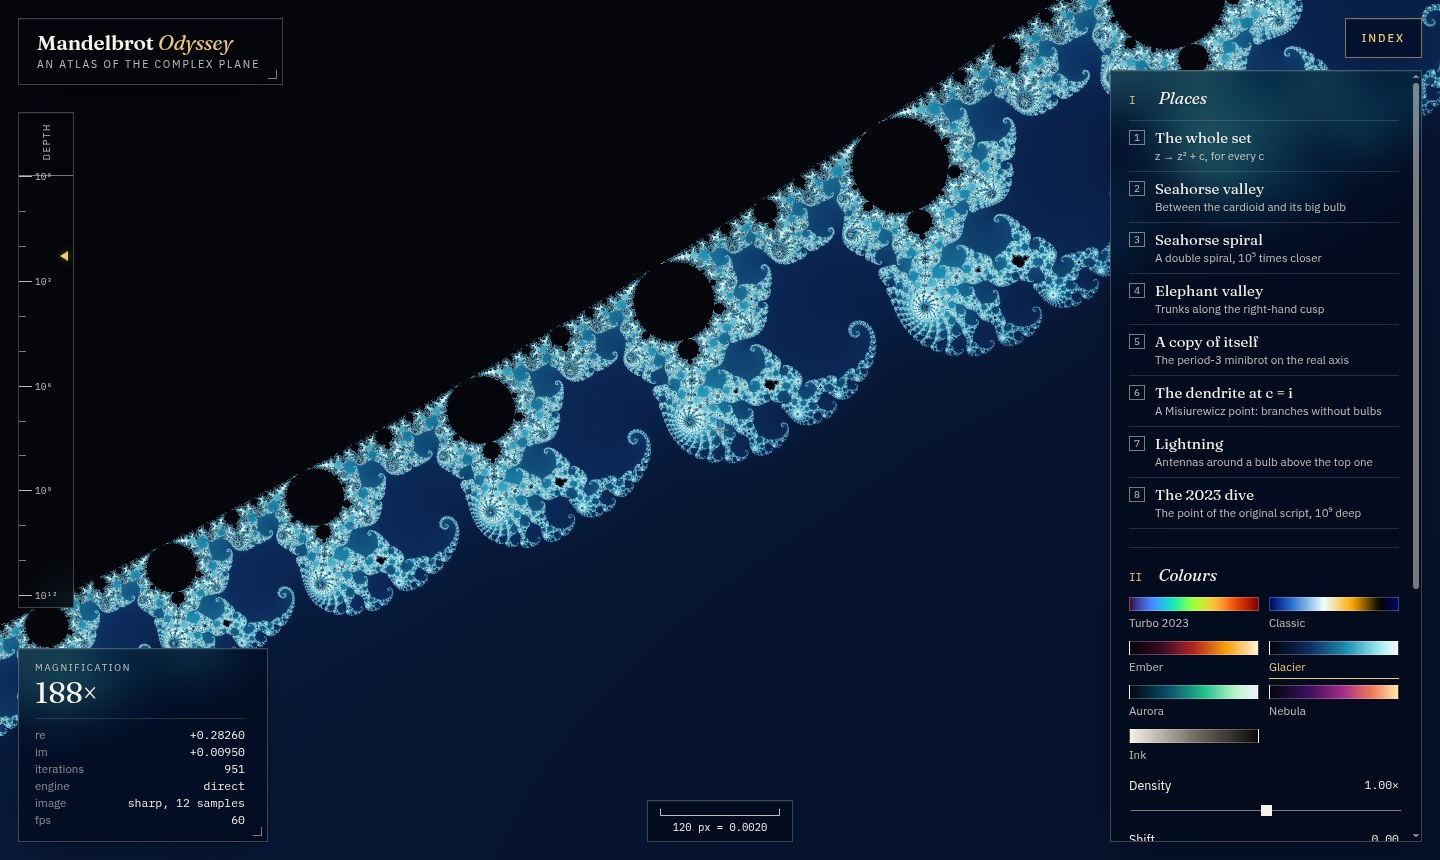
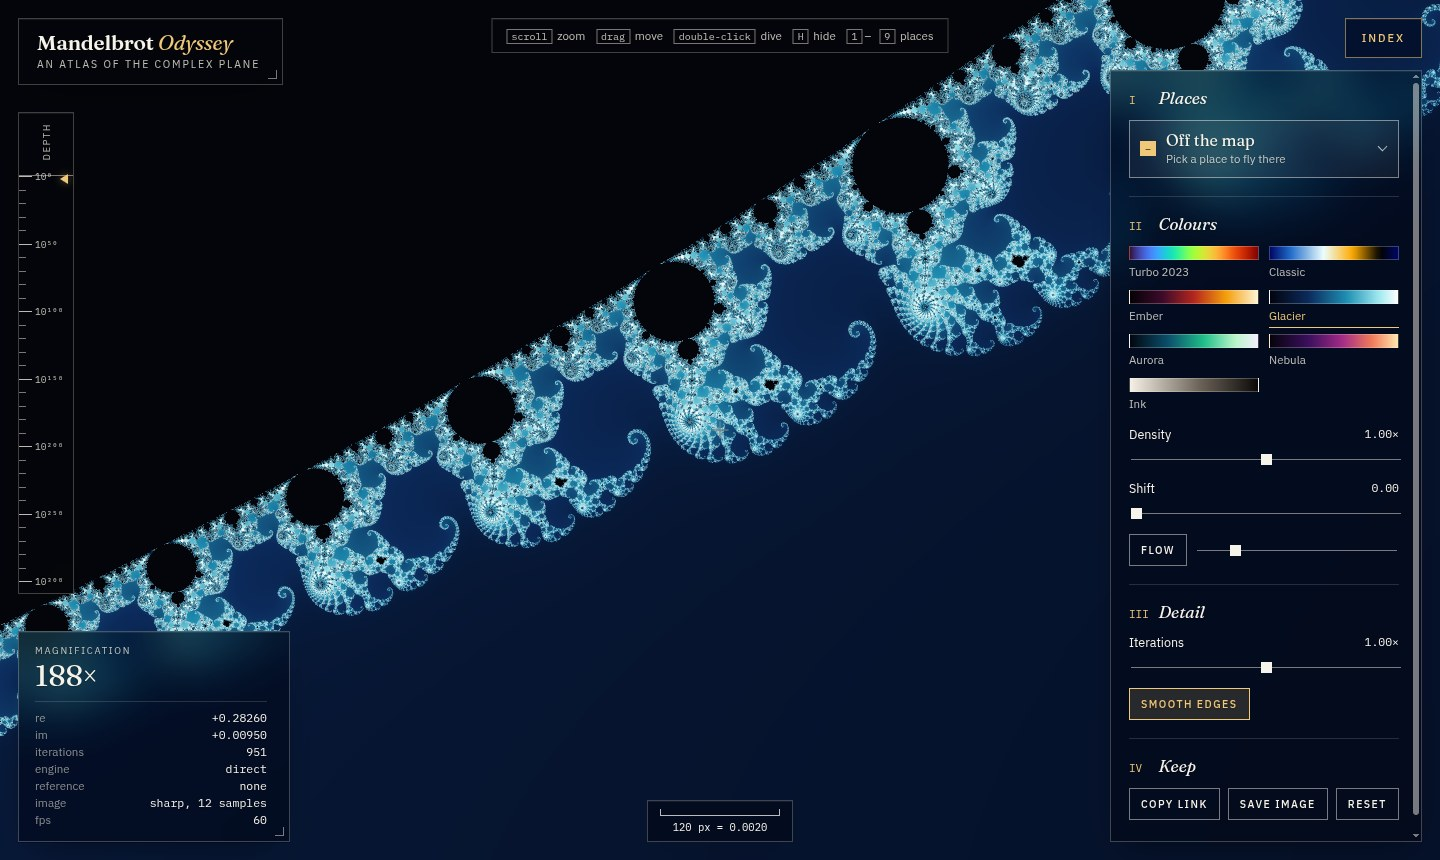
add: deep zoom in the readme, new screenshots

diff --git a/README.md b/README.md
@@ -1,6 +1,6 @@
 # Mandelbrot Odyssey
 
-A real-time journey into the Mandelbrot set, computed live on your graphics card. Scroll into a spiral, fly to the famous places of the set, change the colours as you go, and dive to a magnification of a thousand billion, smoothly.
+A real-time journey into the Mandelbrot set, computed live on your graphics card. Scroll into a spiral, fly to the famous places of the set, change the colours as you go, and dive to a magnification of 10³⁰⁰, smoothly.
 
 ## Installation
 
@@ -54,37 +54,39 @@ npm start
 
 ## Screenshots
 
-![The whole Mandelbrot set, with the panel of places and colours](docs/screenshots/home.jpg)
+![The whole Mandelbrot set, with the index of places and colours](docs/screenshots/home.jpg)
 
-*The whole set. On the right, eight famous places and seven palettes; on the left, the zoom, the coordinates and the engine at work.*
+*The whole set. On the right, the index: places, palettes, detail. On the left, the depth gauge, from 10⁰ to 10³⁰⁰, and the readout of the engine at work.*
 
-![Seahorse valley](docs/screenshots/seahorses.jpg)
+![The index of places, open](docs/screenshots/places.jpg)
 
-*Seahorse valley, between the main cardioid and its largest bulb.*
+*Nine places in a drop-down list, from the whole set down to the bottom of the map. The keys 1 to 9 fly there too.*
 
 ![A double spiral 100 000 times closer](docs/screenshots/spiral.jpg)
 
-*A double spiral at a magnification of 10⁵, computed with perturbations around a reference orbit.*
+*A double spiral at a magnification of 10⁵.*
 
 | | |
 | :-: | :-: |
-| ![Elephant valley in the Glacier palette](docs/screenshots/elephants.jpg) | ![Lightning around a bulb in the Ember palette](docs/screenshots/lightning.jpg) |
-| *Elephant valley, Glacier* | *Lightning, Ember* |
+| ![Seahorse valley](docs/screenshots/seahorses.jpg) | ![Elephant valley in the Glacier palette](docs/screenshots/elephants.jpg) |
+| *Seahorse valley* | *Elephant valley, Glacier* |
+| ![Lightning around a bulb in the Ember palette](docs/screenshots/lightning.jpg) | ![The last frame of the 2023 script](docs/screenshots/dive-2023.jpg) |
+| *Lightning, Ember* | *The 2023 dive, 10¹⁸ deep* |
 
-![The point of the original 2023 script at a magnification of a billion](docs/screenshots/dive-2023.jpg)
+![The dendrite at c = i, 10^290 times closer](docs/screenshots/bottom.jpg)
 
-*The 2023 dive: the point of the original script, a billion times closer, in its own Turbo colours.*
+*The bottom of the map: the dendrite at c = i, 4.5 × 10²⁹⁰ times closer, computed with a reference orbit of 1030 bits. The same branches as at the top: c = i is a Misiurewicz point, where the set looks alike at every scale.*
 
 <p align="center">
   <img src="docs/screenshots/mobile.jpg" alt="The spiral on a phone" width="300">
 </p>
 
-<p align="center"><em>On a phone: pinch to zoom, drag to move, and the panel folds away.</em></p>
+<p align="center"><em>On a phone: pinch to zoom, drag to move, and the index folds away.</em></p>
 
 ## What you can do
 
-- **Zoom anywhere.** Scroll or pinch to zoom around the pointer, drag to move, and let go to glide. Double-click dives four times closer, <kbd>Shift</kbd> + double-click goes back.
-- **Fly to famous places.** Seahorse valley, a double spiral, elephant valley, a minibrot copy of the whole set, the dendrite at c = i, and the point of the original script. Each flight eases in log space, so a jump of nine orders of magnitude still feels even.
+- **Zoom anywhere, as deep as 10³⁰⁰.** Scroll or pinch to zoom around the pointer, drag to move, and let go to glide. Double-click dives four times closer, <kbd>Shift</kbd> + double-click goes back. The point under the pointer stays exactly where it is all along the zoom.
+- **Fly to famous places.** Seahorse valley, a double spiral, elephant valley, a minibrot copy of the whole set, the dendrite at c = i, the end of the original 2023 script at 10¹⁸, and the bottom of the map at 10²⁹⁰. A flight to a place out of sight first pulls back until it is in view, then dives, faster the deeper it goes: 10¹⁸ in about five seconds, 10²⁹⁰ in under twenty.
 - **Colour it.** Seven palettes, including *Turbo 2023*, the colours of the original script: 150 steps of Turbo, up and back down. Change the density and the shift, or let the colours flow. Colours change instantly, without recomputing the image.
 - **Always smooth.** While you move, the image is computed at a lower resolution that fits in the frame budget. When you stop, it sharpens, then smooths its edges with up to 12 samples per pixel.
 - **Share it.** The address always holds the current view: copy the link and anyone opens the same place, with the same colours. Save the image as a PNG.
@@ -98,7 +100,7 @@ npm start
 | double-click | dive ×4 (<kbd>Shift</kbd>: back ×4) |
 | <kbd>←</kbd> <kbd>→</kbd> <kbd>↑</kbd> <kbd>↓</kbd> | move |
 | <kbd>+</kbd> <kbd>−</kbd> | zoom on the centre |
-| <kbd>1</kbd>–<kbd>8</kbd> | famous places |
+| <kbd>1</kbd>–<kbd>9</kbd> | famous places |
 | <kbd>C</kbd> | flowing colours |
 | <kbd>S</kbd> | save the image |
 | <kbd>H</kbd> | hide the panels |
@@ -108,25 +110,31 @@ npm start
 
 Every pixel is a complex number c. The explorer iterates z → z² + c from z = 0 and counts the steps before |z| grows past 256. Points that never escape belong to the set and stay dark. The others are coloured by a *continuous* count, n − log₂(log₂|z|²) + 4, which removes the bands of a plain count.
 
-Graphics cards compute in 32-bit floats, which blur the image past a magnification of about 10⁴. Below that, the explorer uses **perturbation theory**:
+Graphics cards compute in 32-bit floats, which blur the image past a magnification of about 10⁴. Below that, the explorer uses **perturbation theory**, with four refinements:
 
-1. One *reference orbit* Zₙ is computed on the CPU, in double precision, at the centre of the view.
-2. Each pixel only follows its small offset from it, `dz ← 2·Z·dz + dz² + dc`, which 32-bit floats hold without trouble.
-3. **Rebasing:** when a pixel's orbit comes closer to zero than its offset, or the reference runs out, the pixel restarts against the beginning of the same orbit. One reference then serves the whole image, without the glitches of the plain method.
+1. **A reference orbit in arbitrary precision.** One orbit Zₙ is computed at the centre of the view, in fixed point with as many bits as the depth needs: 125 bits at 10¹⁸, 1030 at 10²⁹⁰. A Web Worker computes it, so the view keeps moving meanwhile, and it starts as soon as a flight heads somewhere deep, so that the orbit is often ready on arrival.
+2. **Offsets in 32-bit floats.** Each pixel only follows its small offset from the reference, `dz ← 2·Z·dz + dz² + dc`. Below a pixel size of 2⁻¹⁰⁰ that offset no longer fits a float, whose smallest value is 2⁻¹²⁶: it then carries its own exponent, renormalised at every step, until it has grown large enough to be a plain float again.
+3. **Rebasing.** When a pixel's orbit comes closer to zero than its offset, or the reference runs out, the pixel restarts against the beginning of the same orbit. One reference then serves the whole image, without the glitches of the plain method.
+4. **Bilinear approximation.** While the offset stays small next to the reference, many steps in a row reduce to `dz → A·dz + B·dc`. The worker precomputes A and B for runs of 2, 4, 8… steps, each with the radius within which it holds, and the shader skips the longest run that does. At 10²⁹⁰ this computes 26 times fewer steps.
 
-The tests check the CPU version of both methods against an exact 400-bit computation: the perturbation is as accurate as plain double precision, and the shaders follow the same code line for line.
+**Tested against exact arithmetic.** The shader's method is also written in TypeScript, line for line, in 32-bit float arithmetic that flushes tiny values to zero as GPUs do. The tests check it against iteration in exact fixed point, with over a thousand bits at the deepest, from 10¹⁷ down to 10²⁹⁰, with and without skipping. A check in the browser then compares the counts the GPU computed with that copy, pixel by pixel: they agree to within 3 × 10⁻⁵.
 
-**Depth.** This version reaches a magnification of about 10¹², the limit of a double-precision reference. An arbitrary-precision reference orbit, with deltas that carry their own exponent, comes next, to reach 10¹⁸ and beyond.
+**Speed.** On an integrated AMD Radeon (Ryzen 7 5825U), measured in Chrome: during flights to 10⁵, 10¹⁸ and 10²⁹⁰ and back, one frame in about 3800 took longer than a screen refresh while the view was moving. A full image at 10²⁹⁰ takes 4 ms to compute with the approximation, 76 ms without. The renderer learns what one iteration costs on your GPU and sizes every frame to fit the screen refresh; while the view rests, it tries a little more work each frame to sharpen sooner.
 
-**Speed.** On an integrated AMD Radeon (Ryzen 7 5825U), measured in Chrome: no frame took longer than 33 ms during flights to 10⁵ and to 10⁹, out of 542 frames. The renderer learns what one iteration costs on your GPU and sizes every frame to fit the screen refresh.
+**Depth.** The limit is a magnification of about 10³⁰⁰, where the size of a pixel stops being an ordinary double. One case is still slow: deep inside a minibrot of small period, every pixel runs all its iterations, and no approximation holds across the returns of its orbit to zero, so the image sharpens in seconds rather than at once.
 
 ```
-src/math/mandelbrot.ts   iteration, reference orbit, perturbation with rebasing (CPU, tested)
-src/math/view.ts         view, zoom around a point, easing in log space
+src/math/fixed.ts        numbers in fixed point on BigInt, for centres beyond double precision
+src/math/mandelbrot.ts   iteration, reference orbits in doubles and in fixed point, perturbation (CPU, tested)
+src/math/deep.ts         the shader's perturbation in 32-bit floats, with offsets that carry an exponent
+src/math/bla.ts          the table of bilinear approximations
+src/math/view.ts         view, zoom around a point, flights
 src/render/shaders.ts    the same iteration in GLSL, colouring, display
+src/render/reference.ts  which reference to draw with, and when to ask for a new one
+src/render/orbit-worker.ts  deep orbits and their tables, off the page
 src/render/renderer.ts   progressive rendering, frame budget, supersampling
 src/color/palettes.ts    palettes, Turbo from OpenCV
-src/main.ts              navigation, panel, HUD, shared links
+src/main.ts              navigation, index, readout, shared links
 legacy/mandelbrot.py     the original 2023 script
 ```
 
@@ -144,7 +152,7 @@ The site runs locally. `.github/workflows/ci.yml` runs the tests and the build o
 ## Roadmap
 
 - [x] **Phase 1.** Real-time explorer: smooth navigation, perturbation to 10¹², palettes, places, shared links, image export.
-- [ ] **Phase 2.** Deep zoom: arbitrary-precision reference, exponent-carrying deltas, bilinear approximation, the 2023 dive to 10¹⁸ and beyond.
+- [x] **Phase 2.** Deep zoom to 10³⁰⁰: arbitrary-precision reference in a worker, offsets that carry their own exponent, bilinear approximation, the 2023 dive to 10¹⁸.
 - [ ] **Phase 3.** Atlas: periods of the bulbs, live orbits, Julia sets under the pointer, external rays, π in seahorse valley.
 - [ ] **Phase 4.** Odyssey: an interactive story in eight chapters, driven by the live explorer.
 - [ ] **Phase 5.** Senses: orbits as sound, an endless automatic dive, video export.
@@ -153,5 +161,5 @@ The site runs locally. `.github/workflows/ci.yml` runs the tests and the build o
 ## Credits
 
 - The Turbo colormap is by Google (Apache-2.0), read from OpenCV's `COLORMAP_TURBO`.
-- Perturbation for deep zoom was introduced by K. I. Martin; rebasing comes from the Fractal Forums community. The continuous count follows Inigo Quilez's article on smooth iteration.
+- Perturbation for deep zoom was introduced by K. I. Martin. Rebasing and the bilinear approximation were introduced by Zhuoran on Fractal Forums. The continuous count follows Inigo Quilez's article on smooth iteration.
 - The original 2023 script, kept in [`legacy/`](legacy/), rendered this zoom one image at a time with 80-bit arithmetic.
